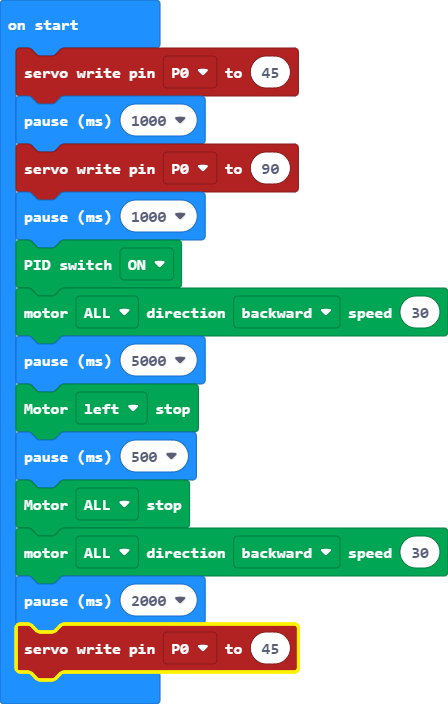
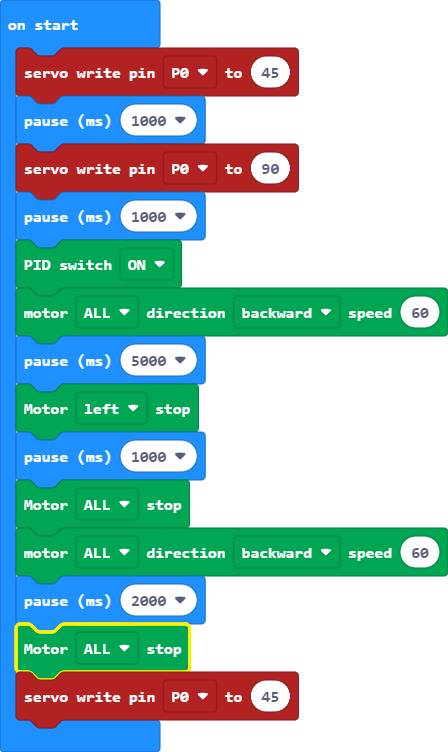
Update main.blocks, main.ts

diff --git a/main.ts b/main.ts
@@ -3,11 +3,12 @@ basic.pause(1000)
 pins.servoWritePin(AnalogPin.P0, 90)
 basic.pause(1000)
 DFRobotMaqueenPlus.PID(PID.ON)
-DFRobotMaqueenPlus.mototRun(Motors.ALL, Dir.CCW, 30)
+DFRobotMaqueenPlus.mototRun(Motors.ALL, Dir.CCW, 60)
 basic.pause(5000)
 DFRobotMaqueenPlus.mototStop(Motors.M1)
-basic.pause(500)
+basic.pause(1000)
 DFRobotMaqueenPlus.mototStop(Motors.ALL)
-DFRobotMaqueenPlus.mototRun(Motors.ALL, Dir.CCW, 30)
+DFRobotMaqueenPlus.mototRun(Motors.ALL, Dir.CCW, 60)
 basic.pause(2000)
+DFRobotMaqueenPlus.mototStop(Motors.ALL)
 pins.servoWritePin(AnalogPin.P0, 45)
